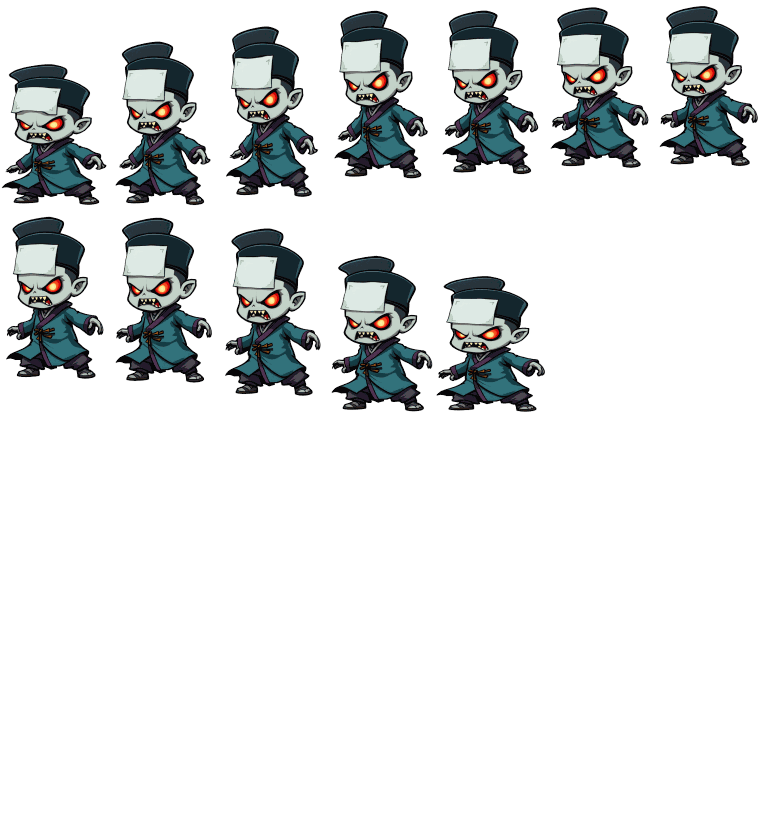
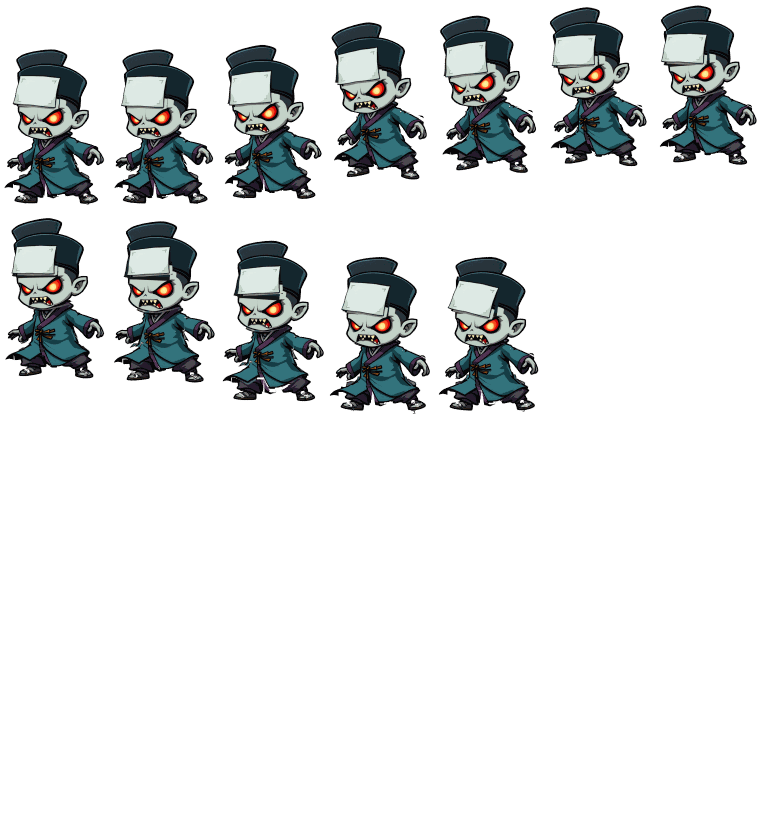
Jiangshi sample: a cut-out rig instead of one warping sheet
The chapter-1 jiangshi is cut into eight parts (legs, hem, torso, sleeves, head, talisman)
with the covered areas painted in, and its hop is posed per part: legs tuck in the air, the
head lags and the talisman flaps. tools/mob_rig.py bakes it into the same frame sheet, so the
game's cost is unchanged. Mobs now rock back from the hero when hit and sway while they stand,
instead of squashing and breathing in scale.

Changed region(s): [[0.0, 0.0, 0.9948, 0.5133]]

diff --git a/client/src/game/mobView.ts b/client/src/game/mobView.ts
@@ -2,7 +2,7 @@ import { Container, Rectangle, Sprite, Texture } from 'pixi.js';
 import { faceSide } from './camera';
 import { makeShadow, sizeShadow, type ShadowBatch } from './shadow';
 import { THREAT_TIME, threatAlpha } from './threat';
-import { SETTLE, corpseAlpha, frameAt, greyTint, holdsStill, knockDown, stepCorpse, stepPace, type Corpse, type SheetMeta } from './mobAnim';
+import { RECOIL_TIME, SETTLE, corpseAlpha, recoilTilt, swayTilt, frameAt, greyTint, holdsStill, knockDown, stepCorpse, stepPace, type Corpse, type SheetMeta } from './mobAnim';
 
 // Draws mobs from their baked sheets: a looping animated sprite over a ground shadow that
 // stays on the ground while the sprite hops. Corpses are separate sprites, so a knocked-down
@@ -18,9 +18,6 @@ const DRAW_EASE = 0.08;
 const DRAW_SNAP = 120;
 /** Brightness steps of the crowd shading (shade), too fine to see on a moving mob. */
 const SHADE_STEPS = 48;
-/** A mob standing in a jam breathes: this much stretch, this many breaths per second. */
-const BREATH = 0.025;
-const BREATH_RATE = 0.45;
 
 export interface MobSheet {
   meta: SheetMeta;
@@ -53,7 +50,6 @@ export function sliceSheet(meta: SheetMeta, sheet: Texture, x0 = 0, y0 = 0): Mob
 
 /** How fast a knocked-down body flies off along the blow, world units per second. */
 const KNOCK_SPEED = 640;
-const SQUASH_TIME = 0.15;
 const FLASH_TIME = 0.09;
 /** Seconds a struck mob's drawing holds still (hit-stop); the sim keeps moving it meanwhile. */
 export const HOLD_TIME = 0.05;
@@ -67,8 +63,8 @@ export class MobView {
   private pace = 1;
   private lastX = NaN;
   private lastY = 0;
-  private squash = 0;
-  private squashLen = SQUASH_TIME;
+  private recoil = 0;
+  private recoilLen = RECOIL_TIME;
   private flash = 0;
   /** Seconds left as a threat (threat.ts): no white flash, and the horde rims it red. */
   private threat = 0;
@@ -134,12 +130,12 @@ export class MobView {
   }
 
   /**
-   * A hit that does not kill: a white flash, a short squash, and for `hold` seconds the drawing
+   * A hit that does not kill: a white flash, a rock back from the hero, and for `hold` seconds the drawing
    * freezes its walk frame and place (0 for none, e.g. late in a run), then catches up; the flash
-   * and squash last `slow` times as long (the corgi's bomb, spells.ts BOOM_SLOW).
+   * and rock last `slow` times as long (the corgi's bomb, spells.ts BOOM_SLOW).
    */
   flinch(hold = HOLD_TIME, slow = 1): void {
-    this.squash = this.squashLen = SQUASH_TIME * slow;
+    this.recoil = this.recoilLen = RECOIL_TIME * slow;
     this.flash = FLASH_TIME * slow;
     this.hold = Math.max(this.hold, hold);
   }
@@ -168,7 +164,7 @@ export class MobView {
   /**
    * `speed` scales the cycle, e.g. slower while standing. `faceX` is the side to look at. With
    * a `walk` speed, a mob jammed in the crowd lands and stands instead of hopping in place,
-   * and with `sway` it breathes gently while it stands.
+   * and with `sway` it sways on its feet while it stands.
    */
   update(dt: number, x: number, y: number, faceX: number, speed = 1, walk = 0, sway = false): void {
     const { meta, textures } = this.look.sheet;
@@ -188,22 +184,16 @@ export class MobView {
     this.sprite.texture = textures[f + (this.flash > 0 && this.threat <= 0 ? meta.flash : 0)];
     if (!held) this.side = faceSide(this.side, faceX, FACE_DEAD);
     const flip = (this.side < 0) === this.look.facesLeft ? 1 : -1;
-    let sx = this.scale * (1 + this.swell);
-    let sy = this.scale * (1 + this.swell);
-    if (this.squash > 0) {
-      this.squash = Math.max(0, this.squash - dt);
-      const k = Math.sin((this.squash / this.squashLen) * Math.PI) * 0.25;
-      sx *= 1 + k;
-      sy *= 1 - k;
-    }
+    const s = this.scale * (1 + this.swell);
+    this.recoil = Math.max(0, this.recoil - dt);
+    // leans about its feet: back from the side it faces when hit, side to side when it stands
+    let tilt = -this.side * recoilTilt(this.recoil, this.recoilLen);
     if (sway && walk > 0) {
       this.idle += dt;
-      const still = Math.max(0, 1 - this.pace / SETTLE);
-      const b = Math.sin((this.idle * BREATH_RATE + this.phase) * Math.PI * 2) * BREATH * still;
-      sx *= 1 - b * 0.5;
-      sy *= 1 + b;
+      tilt += swayTilt(this.idle, this.phase, Math.max(0, 1 - this.pace / SETTLE));
     }
-    this.sprite.scale.set(sx * flip, sy);
+    this.sprite.scale.set(s * flip, s);
+    this.sprite.rotation = tilt;
     if (held) {
       x = this.drawX;
       y = this.drawY;

diff --git a/client/src/game/mobAnim.test.ts b/client/src/game/mobAnim.test.ts
@@ -1,5 +1,5 @@
 import { describe, expect, it } from 'vitest';
-import { CORPSE_LIFE, corpseAlpha, frameAt, knockDown, stepCorpse, type SheetMeta, holdsStill, SETTLE, stepPace, depthShade, greyTint, DEPTH_SHADE } from './mobAnim';
+import { RECOIL, recoilTilt, swayTilt, CORPSE_LIFE, corpseAlpha, frameAt, knockDown, stepCorpse, type SheetMeta, holdsStill, SETTLE, stepPace, depthShade, greyTint, DEPTH_SHADE } from './mobAnim';
 
 const meta: SheetMeta = { frames: 10, flash: 10, cols: 4, frameW: 1, frameH: 1, fps: 20, anchor: [0, 0], height: 1, lift: [] };
 
@@ -66,5 +66,27 @@ describe('depth shade', () => {
     expect(greyTint(0)).toBe(0);
     expect(greyTint(0.5, 0xff0080)).toBe(0x800040);
     expect(greyTint(0.5)).toBe(0x808080);
+  });
+});
+
+describe('recoilTilt', () => {
+  it('snaps back, overshoots a little and comes to rest', () => {
+    const at = (u: number) => recoilTilt((1 - u) * 0.2, 0.2);
+    expect(recoilTilt(0, 0.2)).toBe(0);
+    expect(recoilTilt(0.1, 0)).toBe(0);
+    const peak = Math.max(...[0.1, 0.2, 0.3, 0.4].map(at));
+    expect(peak).toBeGreaterThan(RECOIL * 0.6);
+    expect(peak).toBeLessThanOrEqual(RECOIL * 1.2);
+    expect(at(0.15)).toBeGreaterThan(0);
+    expect(at(0.92)).toBeLessThan(0);
+    expect(Math.abs(at(0.92))).toBeLessThan(peak * 0.2);
+  });
+});
+
+describe('swayTilt', () => {
+  it('leans only as far as the mob stands still', () => {
+    expect(swayTilt(0.55, 0, 0)).toBe(0);
+    expect(Math.abs(swayTilt(0.55, 0, 1))).toBeGreaterThan(0.03);
+    expect(Math.abs(swayTilt(0.55, 0, 0.5))).toBeCloseTo(Math.abs(swayTilt(0.55, 0, 1)) / 2);
   });
 });

diff --git a/client/src/game/mobAnim.ts b/client/src/game/mobAnim.ts
@@ -70,6 +70,29 @@ export function corpseAlpha(c: Corpse): number {
   return Math.max(0, Math.min(1, (CORPSE_LIFE - c.age) / 0.2));
 }
 
+/** A hit rocks the mob back this far (radians) about its feet, for this long. */
+export const RECOIL = 0.24;
+export const RECOIL_TIME = 0.22;
+
+/**
+ * The rock back of a hit, `left` of `len` seconds to go: a snap back from the hero, a small
+ * overshoot forward, then still. Positive leans away from the side the mob faces.
+ */
+export function recoilTilt(left: number, len: number): number {
+  if (left <= 0 || len <= 0) return 0;
+  const u = 1 - Math.min(1, left / len);
+  return RECOIL * Math.sin(u * Math.PI * 1.25) * (1 - u) * 1.6;
+}
+
+/** A mob standing in a jam sways on its feet: this far (radians), this many times a second. */
+const SWAY = 0.05;
+const SWAY_RATE = 0.45;
+
+/** The sway's lean after `idle` seconds, `still` 0..1 of the way to standing. */
+export function swayTilt(idle: number, phase: number, still: number): number {
+  return Math.sin((idle * SWAY_RATE + phase) * Math.PI * 2) * SWAY * still;
+}
+
 /** A mob going slower than this share of its walking speed stops hopping once it lands. */
 export const SETTLE = 0.35;
 /** Seconds for the measured pace to follow the real one. */

diff --git a/tools/mob_rig.py b/tools/mob_rig.py
@@ -1,0 +1,157 @@
+"""Cut-out parts for a baked mob (bake_mob.py's "rig" spec key): the drawing is split into
+parts that each turn, move and scale about their own joint, so a loop gets legs, sleeves and a
+head that move on their own instead of one sheet warping. The frames still bake into the same
+sheet, so the game draws them as before.
+
+"rig" (coordinates in pixels of the source drawing, not the cut-out):
+  {
+    "parts": [                        # back to front: the draw order
+      {"name": "leg_b", "parent": "root",
+       "poly": [[x, y], ...],         # the region of the drawing it takes (absent: "rest")
+       "rest": true,                  # takes every pixel no other part claimed
+       "not_hsv": [[h, s, v], [h, s, v]], "not_grow": 8,  # leaves paint in this OpenCV HSV
+                                      #   range to others, and the outline within not_grow px of it
+       "hidden": [[[x, y], ...]],     # covered at rest by parts in front: filled from the part's
+                                      #   own colours, with the outline drawn again where it ends;
+                                      #   an entry may be {"poly": [...], "fill": [r, g, b]}
+       "pivot": [x, y]}
+    ],
+    "seal": 4,                        # optional: outline gaps up to twice this many px are closed
+    "claim": ["head", ...],           # optional: who takes contested pixels first (default:
+                                      #   front to back)
+    "bones": {"body": {"pivot": [x, y], "parent": "root"}},  # optional joints with no picture
+    "anim": {"head": {"rot": f, "dx": f, "dy": f, "sx": f, "sy": f}}  # deg cw, source px
+  }
+The root is the whole figure: the spec's "body": {"dy": f} lifts it (and is the sheet's lift).
+"""
+import math
+
+import cv2
+import numpy as np
+from PIL import Image, ImageChops
+
+from cutout import background_mask
+from split_parts import DARK, OUTLINE, OUTLINE_RGB, disc, poly_mask
+
+
+def cut_parts(path, rig, holes=()):
+    """Each part as a premultiplied float RGBA image the size of the drawing, and the cut-out's
+    top-left in the drawing (bake_mob's cut-out coordinates start there)."""
+    src = Image.open(path).convert("RGB")
+    bg = background_mask(src, holes=holes)
+    box = ImageChops.invert(bg).getbbox()
+    fg = np.array(ImageChops.invert(bg))
+    # paper the flood reached through a gap of a few px in the outline (a white sole on the
+    # ground shadow) is the figure's: whatever a slightly closed silhouette encloses
+    closed = cv2.morphologyEx(fg, cv2.MORPH_CLOSE, disc(rig.get("seal", 4)))
+    outside = np.pad((closed == 0).astype(np.uint8), 1, constant_values=1)
+    cv2.floodFill(outside, None, (0, 0), 2)
+    fg[outside[1:-1, 1:-1] != 2] = 255
+    soft = cv2.GaussianBlur(fg.astype(np.float32) / 255, (0, 0), 0.6)  # cutout.py's feather
+    rgb = np.array(src)
+    hsv = cv2.cvtColor(rgb, cv2.COLOR_RGB2HSV)
+    parts = rig["parts"]
+    by_name = {p["name"]: p for p in parts}
+    order = rig.get("claim") or [p["name"] for p in reversed(parts)]
+    owned, taken = {}, np.zeros(fg.shape, bool)
+    for name in order:
+        p = by_name[name]
+        if p.get("rest"):
+            continue
+        m = (np.array(poly_mask(src.size, [p["poly"]])) > 0) & (fg > 0) & ~taken
+        if "not_hsv" in p:
+            lo, hi = (np.array(v, np.uint8) for v in p["not_hsv"])
+            other = cv2.inRange(hsv, lo, hi)
+            g = p.get("not_grow", 0)
+            near = cv2.dilate(other, disc(g)) > 0 if g else other > 0
+            m &= ~((other > 0) | (near & (hsv[..., 2] < DARK)))
+        owned[name] = m
+        taken |= m
+    for p in parts:
+        if p.get("rest"):
+            owned[p["name"]] = (fg > 0) & ~taken
+    images = {}
+    for p in parts:
+        own = owned[p["name"]]
+        entries = [h if isinstance(h, dict) else {"poly": h} for h in p.get("hidden", [])]
+        hidden = (np.array(poly_mask(src.size, [h["poly"] for h in entries])) > 0) & (fg > 0) & ~own
+        out = rgb.copy()
+        if hidden.any():
+            # paint from the part's own colours only, not its outline or the neighbours
+            known = own & (hsv[..., 2] >= DARK)
+            painted = cv2.inpaint(rgb, (~known).astype(np.uint8) * 255, 7, cv2.INPAINT_TELEA)
+            out[hidden] = painted[hidden]
+            for h in entries:
+                if "fill" in h:
+                    out[hidden & (np.array(poly_mask(src.size, [h["poly"]])) > 0)] = h["fill"]
+            solid = (own | hidden).astype(np.uint8)
+            ring = (solid > 0) & (cv2.erode(solid, disc(OUTLINE // 2 + 1)) == 0) & hidden
+            out[ring] = OUTLINE_RGB
+        alpha = np.where(hidden, 1.0, np.where(own, soft, 0)).astype(np.float32)
+        a = np.dstack([out.astype(np.float32) / 255 * alpha[..., None], alpha])
+        images[p["name"]] = a
+    return images, box[:2]
+
+
+def matrix(rot, dx, dy, sx, sy, pivot):
+    """3x3: scale and turn (deg cw) about the pivot, then move."""
+    px, py = pivot
+    c, s = math.cos(math.radians(rot)), math.sin(math.radians(rot))
+    a = np.array([[c * sx, -s * sy], [s * sx, c * sy]])
+    m = np.eye(3)
+    m[:2, :2] = a
+    m[:2, 2] = np.array([px + dx, py + dy]) - a @ np.array([px, py])
+    return m
+
+
+def rig_frames(spec, path, value, pads, size, count):
+    """`count` premultiplied frames of size (W, H): the posed parts, drawn back to front, with
+    the cut-out's top-left at `pads` (left, top) as bake_mob.py places it."""
+    rig = spec["rig"]
+    images, (bx, by) = cut_parts(path, rig, spec.get("holes", ()))
+    shift = np.array([pads[0] - bx, pads[1] - by], np.float64)
+    joints = {p["name"]: p for p in rig["parts"]}
+    joints.update(rig.get("bones", {}))
+    W, H = size
+    root_dy = spec.get("body", {}).get("dy", 0)
+    frames = []
+    for i in range(count):
+        t = i / count
+        world = {"root": matrix(0, 0, value(root_dy, t), 1, 1, (0, 0))}
+
+        def place(name):
+            if name not in world:
+                j = joints[name]
+                k = rig.get("anim", {}).get(name, {})
+                ch = lambda c, d: value(k.get(c, d), t)  # noqa: E731
+                local = matrix(ch("rot", 0), ch("dx", 0), ch("dy", 0), ch("sx", 1), ch("sy", 1), j["pivot"])
+                world[name] = place(j.get("parent", "root")) @ local
+            return world[name]
+
+        frame = np.zeros((H, W, 4), np.float32)
+        for p in rig["parts"]:
+            m = place(p["name"]).copy()
+            m[:2, 2] += shift
+            layer = cv2.warpAffine(images[p["name"]], m[:2], (W, H), flags=cv2.INTER_LINEAR,
+                                   borderMode=cv2.BORDER_CONSTANT, borderValue=0)
+            frame = layer + frame * (1 - layer[:, :, 3:])
+        frames.append(frame)
+    return frames
+
+
+def preview(spec, path, out):
+    """The parts pulled apart over grey, joints marked: for placing polygons and pivots."""
+    images, _ = cut_parts(path, spec["rig"], spec.get("holes", ()))
+    h, w = next(iter(images.values())).shape[:2]
+    pivots = [p["pivot"] for p in spec["rig"]["parts"]]
+    cx, cy = np.mean([v[0] for v in pivots]), np.mean([v[1] for v in pivots])
+    board = np.zeros((h + 200, w * 2, 4), np.float32)
+    board[..., :3], board[..., 3] = 0.45, 1
+    for p in spec["rig"]["parts"]:
+        im = images[p["name"]]
+        for ox, oy in ((0, 100), (w + (p["pivot"][0] - cx) * 0.4, 100 + (p["pivot"][1] - cy) * 0.4)):
+            m = np.float32([[1, 0, ox], [0, 1, oy]])
+            layer = cv2.warpAffine(im, m, (w * 2, h + 200))
+            board = layer + board * (1 - layer[:, :, 3:])
+        cv2.circle(board, (int(p["pivot"][0]), int(p["pivot"][1]) + 100), 6, (1, 0, 0, 1), -1)
+    Image.fromarray((np.clip(board, 0, 1) * 255).astype(np.uint8), "RGBA").save(out)

diff --git a/tools/bake_mob.py b/tools/bake_mob.py
@@ -35,7 +35,10 @@ spec.json (coordinates in pixels of the cut-out source, times are loop phase 0..
       {"type": "move", "region": R, "dx": f, "dy": f},
       {"type": "wave", "region": R, "root": [x, y], "dir": [ux, uy],
        "length": px, "wavelength": px, "amp": f, "cycles": n}
-    ]
+    ],
+    "rig": {...}                    # optional, in place of "deform": cut-out parts that each
+                                    # move about their own joint (tools/mob_rig.py); "body"
+                                    # then only lifts ("dy")
   }
 R is an ellipse {"c": [x, y], "r": [rx, ry], "feather": 0..1}; the deformer acts fully
 inside and fades out over the outer `feather` fraction of the radius.
@@ -53,6 +56,7 @@ from PIL import Image
 
 sys.path.insert(0, os.path.dirname(__file__))
 from cutout import cutout  # noqa: E402
+from mob_rig import preview, rig_frames  # noqa: E402
 from sticker_pass import sticker  # noqa: E402
 
 
@@ -182,8 +186,22 @@ def bake(spec, base):
                 d[k] = shift(d[k])
         deform.append(d)
 
-    ys, xs = np.mgrid[0:H, 0:W].astype(np.float32)
     body = spec.get("body", {})
+    if "rig" in spec:
+        # cut-out parts posed per frame (mob_rig.py) in place of the warp
+        posed = rig_frames(spec, os.path.join(base, spec["source"]), value, (l, t_), (W, H), spec["frames"])
+        frames = [cv2.resize(f, (fw, fh), interpolation=cv2.INTER_AREA) for f in posed]
+        lift = [round(-value(body.get("dy", 0), i / spec["frames"]) * scale, 1) for i in range(spec["frames"])]
+    else:
+        frames, lift = warp_frames(spec, canvas, body, deform, (gx, gy), (W, H), (fw, fh), scale)
+    return finish(spec, frames, lift, fw, fh, pad, ol, fit, gx * scale, gy * scale)
+
+
+def warp_frames(spec, canvas, body, deform, ground, size, out, scale):
+    """The frames warped by the spec's body and deformers, at sheet size."""
+    gx, gy = ground
+    W, H = size
+    ys, xs = np.mgrid[0:H, 0:W].astype(np.float32)
     frames, lift = [], []
     for i in range(spec["frames"]):
         t = i / spec["frames"]
@@ -195,8 +213,13 @@ def bake(spec, base):
             x, y = inverse(d, t, x, y)
         warped = cv2.remap(canvas, x.astype(np.float32), y.astype(np.float32), cv2.INTER_LINEAR,
                            borderMode=cv2.BORDER_CONSTANT, borderValue=0)
-        frames.append(cv2.resize(warped, (fw, fh), interpolation=cv2.INTER_AREA))
+        frames.append(cv2.resize(warped, out, interpolation=cv2.INTER_AREA))
+    return frames, lift
 
+
+def finish(spec, frames, lift, fw, fh, pad, ol, fit, gx, gy):
+    """The sticker pass, flash copies and rim on the frames, packed into the sheet and its meta;
+    (gx, gy) is the ground in sheet px."""
     if "sticker" in spec:
         frames = sticker_frames(frames, spec["height"] / spec["sticker"]["drawn"], spec["sticker"].get("flat", True))
     n = len(frames)
@@ -226,7 +249,7 @@ def bake(spec, base):
     out = Image.fromarray((np.clip(sheet, 0, 1) * 255 + 0.5).astype(np.uint8), "RGBA")
     meta = {
         "frames": n, "flash": n if len(frames) > n else 0, "cols": cols, "frameW": fw, "frameH": fh, "fps": spec["fps"],
-        "anchor": fit["anchor"] if fit else [round(gx * scale, 1) + pad, round(gy * scale, 1) + pad],
+        "anchor": fit["anchor"] if fit else [round(gx, 1) + pad, round(gy, 1) + pad],
         # the cut-out's height in sheet px, and how high off the ground each frame floats
         "height": spec["height"], "lift": lift,
     }
@@ -275,7 +298,8 @@ if __name__ == "__main__":
     with open(spec_path, encoding="utf-8") as fh_:
         spec = json.load(fh_)
     if "--debug" in sys.argv:
-        debug_overlay(spec, base, sys.argv[sys.argv.index("--debug") + 1])
+        out_ = sys.argv[sys.argv.index("--debug") + 1]
+        preview(spec, os.path.join(base, spec["source"]), out_) if "rig" in spec else debug_overlay(spec, base, out_)
         sys.exit()
     sheet, meta = bake(spec, base)
     out = os.path.normpath(os.path.join(base, spec["out"]))
